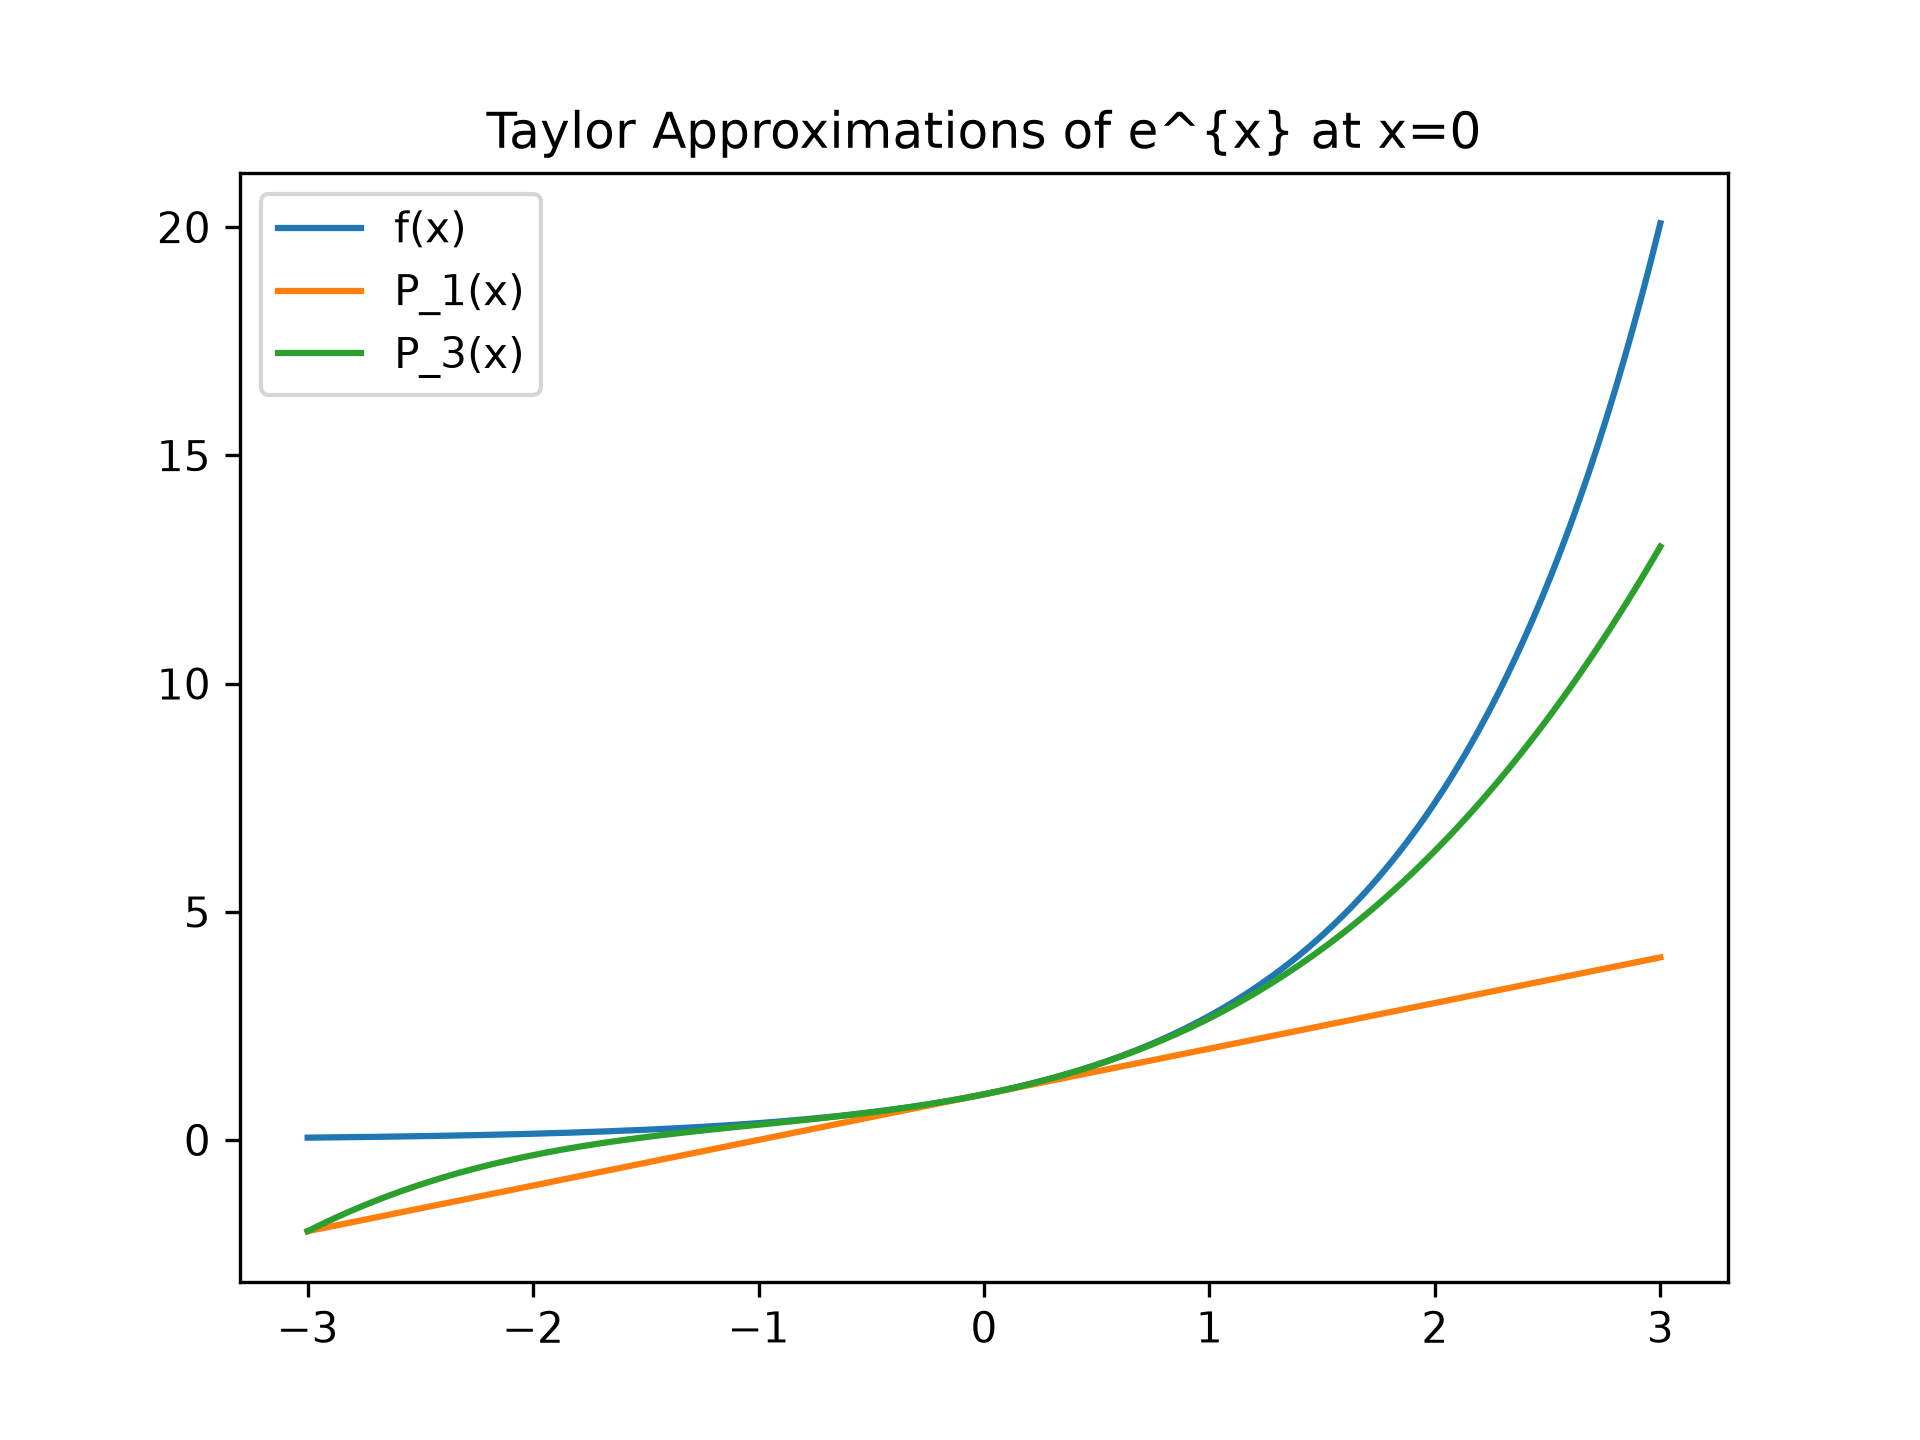
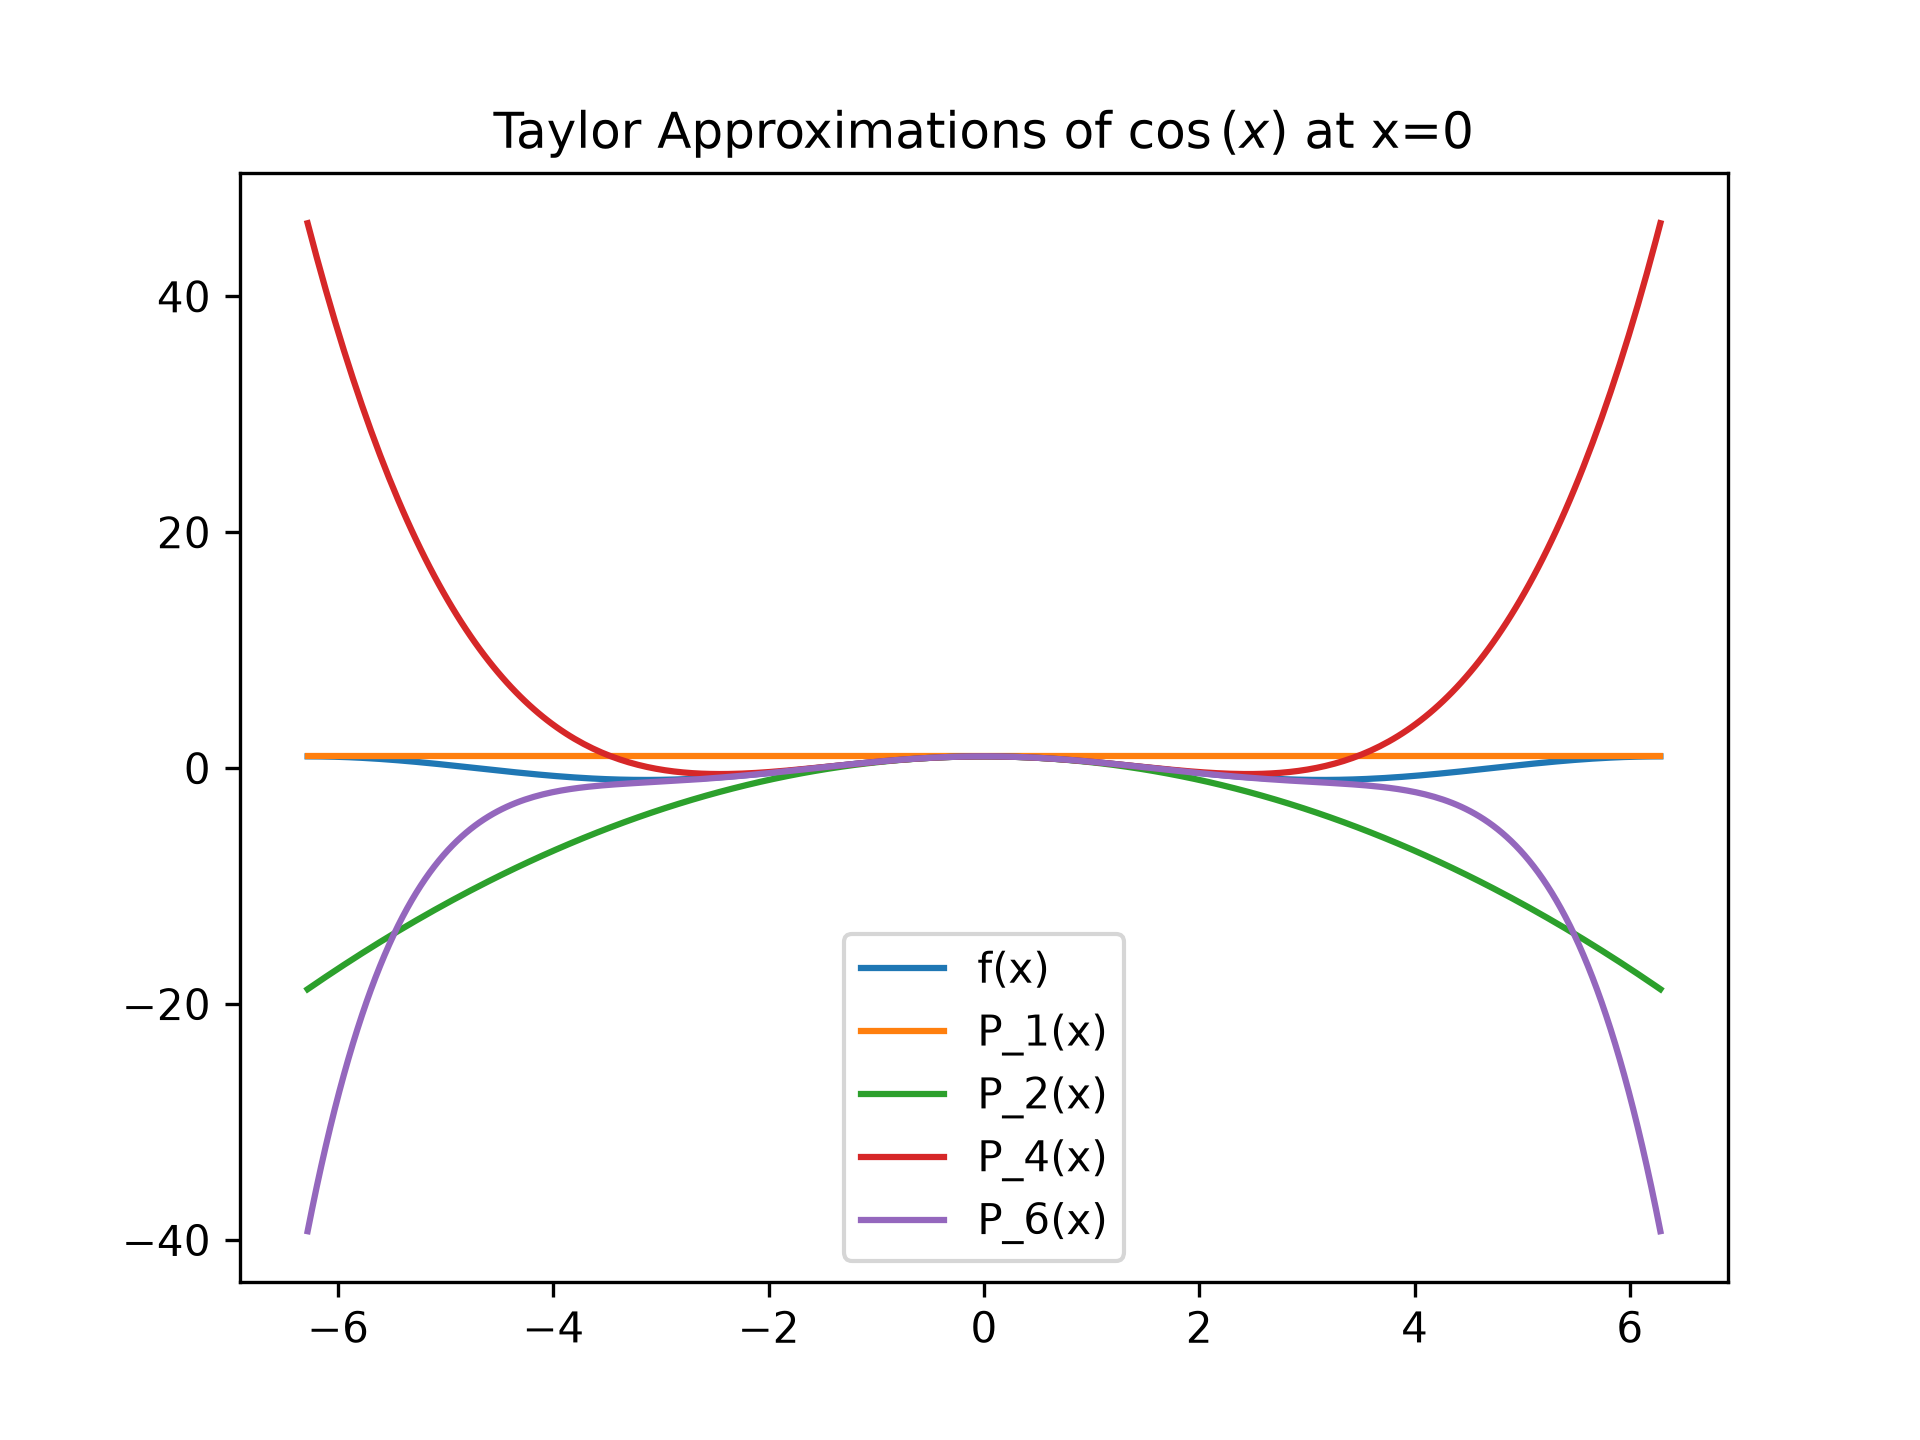
add test cases for taylor series

diff --git a/assignment_1/taylor_series.py b/assignment_1/taylor_series.py
@@ -5,7 +5,7 @@ import numpy as np
 def find_var(expr): #helper function
     variables = expr.free_symbols
     if len(variables) != 1:
-        raise ValueError("0 or >1 free symbols")
+        raise ValueError("0 or > 1 free symbols")
     return list(variables)[0]
 
 def taylor_series ( expr , point , n , var = None ):
@@ -25,6 +25,12 @@ def taylor_series ( expr , point , n , var = None ):
 
     for i in range(n+1):
         derivative = expr.diff(var,i).subs(var,point)
+
+        if derivative == sp.nan:
+            raise ValueError(f"derivative not defined at {point} for n = {n}, function is not differentiable at {point}")
+        elif derivative == sp.zoo:
+            raise ValueError(f"derivative not defined at {point} for n = {n}, limit goes to infinity")
+
         term = derivative/sp.factorial(i) * (var-point)**(i)
         return_expr += term
         return_data["terms"].append(term)
@@ -37,6 +43,8 @@ def taylor_series ( expr , point , n , var = None ):
     return return_data
 
 def evaluate_and_compare(expr, point, n, x_eval, var=None):
+    if (type(expr) == str):
+            expr = sp.sympify(expr)
     if var == None:
             var=find_var(expr)
     series = taylor_series(expr,point,n,var)
@@ -44,7 +52,7 @@ def evaluate_and_compare(expr, point, n, x_eval, var=None):
     approx = sp.N(series["polynomial"].subs(var,x_eval))
     true_value = sp.N(expr.subs(var,x_eval))
     abs_error = abs(true_value - approx)
-    rel_error = abs_error/true_value
+    rel_error = abs_error/abs(true_value)
     return {"approx" : approx, "true_value" : true_value, "abs_error" : abs_error, "rel_error" : rel_error}
 
 def plot_taylor_approximations(expr, point, orders,x_range, var=None):
@@ -53,22 +61,142 @@ def plot_taylor_approximations(expr, point, orders,x_range, var=None):
         var = find_var(expr)
     f = sp.lambdify(var,expr)
     y_f = f(x_arr)
+    if np.isscalar(y_f): #to avoid value error incase the whole array is shrunk to one value
+        y_f = np.full_like(x_arr, y_f)
+
     plt.plot(x_arr,y_f,label = "f(x)")
     for order in orders:
         series = taylor_series(expr,point, order,var)
         der = sp.lambdify(var,series["polynomial"])
         y_arr = der(x_arr)
         label = f"P_{order}(x)"
+
+        if np.isscalar(y_arr):
+            y_arr = np.full_like(x_arr, y_arr)
+
         plt.plot(x_arr,y_arr,label=label)
     plt.legend()
-    plt.title(f"Taylor Approximations of {sp.latex(expr)} at x={point}")
+    plt.title(f"Taylor Approximations of ${sp.latex(expr)}$ at x={point}")
     plt.savefig('taylor_plot.png', dpi=300)
     
 
 
 if __name__ == "__main__":
     x = sp.Symbol('x')
+
+    #test case i
+    print("Test case i: ")
     expr = sp.exp(x)
-    print(taylor_series(expr,0,3))
-    print(evaluate_and_compare(expr,0,3,1))
-    plot_taylor_approximations(expr, 0, [1, 3], [-3, 3])  
+    x0 = 0
+    N = [1,3,5]
+    print(f"For {expr}")
+    for n in N:
+        tc1 = evaluate_and_compare(expr,x0,n,0.5)
+        print(f"at n = {n}: Absolute error = {tc1['abs_error']}, Relative error = {tc1['rel_error']}")
+
+    #test case ii
+    print("\nTest case ii: ")
+    expr = sp.sin(x)
+    x0 = 0
+    n=7
+    tc2 = taylor_series(expr,x0,n)
+    print(f"\nFor {expr} at n = {n}:")
+    print(f"Terms: {tc2['terms']}")
+    print("(all even order terms vanished)")
+
+    #test case iii
+    print("\nTest case iii: ")
+    expr = sp.ln(x)
+    x0 = 1
+    n = 4
+    tc3 = evaluate_and_compare(expr,x0,n,1.2)
+    print(f"\nFor {expr} at n = {n}:")
+    print(f"P_4(1.2) = {tc3['approx']}, ln(1.2) = {tc3['true_value']}")
+    print(f"Absolute error = {tc3['abs_error']}, Relative error = {tc3['rel_error']}")
+
+    #test case iv
+    print("\nTest case iv: ")
+    expr = 1/(1-x)
+    x0 = 0
+    n = 5
+    xin = [0.9,1.5]
+    tc4_1 = evaluate_and_compare(expr,x0,n,xin[0])
+    tc4_2 = evaluate_and_compare(expr,x0,n,xin[1])
+    print(f"\nFor {expr} at n = {n}:")
+    print(f"P_5(0.9) = {tc4_1['approx']}, 1/(1-{xin[0]}) = {tc4_1['true_value']}")
+    print(f"Absolute error = {tc4_1['abs_error']}, Relative error = {tc4_1['rel_error']}")
+    print(f"P_5(1.5) = {tc4_2['approx']}, 1/(1-{xin[1]}) = {tc4_2['true_value']}")
+    print(f"Absolute error = {tc4_2['abs_error']}, Relative error = {tc4_2['rel_error']}")
+
+    #test case v
+    #tc 5.1
+    print("\nTest case 5.1: ")
+    expr = x**2
+    n = 0
+    x0 = x
+    tc5_1 = taylor_series(expr, x0, 0, x)
+    print(f"When n = 0, derivative of {expr} is still {tc5_1['polynomial']}")
+
+    x0 = 2
+    tc5_1 = taylor_series(expr, x0, 0, x)
+    print(f"When n = 0, {expr} at x = {x0} is still {tc5_1['polynomial']}")
+
+    #tc 5.2
+    print("\nTest case 5.2: ")
+    try:
+        tc5_1 = taylor_series(expr, x0, -1, x)
+
+    except ValueError as msg:
+        print(f"Error: {msg}")
+    try:
+        tc5_1 = taylor_series(expr, x0, "a", x)
+    except ValueError as msg:
+        print(f"Error: {msg}")
+
+    #tc 5.3
+    print("\nTest case 5.3: ")
+    try:
+        expr = sp.Integer(5)
+        taylor_series(expr,x0,3)
+    except ValueError as msg:
+        print(f"Error: {msg}")
+    #tc 5.4
+    print("\nTest case 5.4: ")
+    try:
+        y = sp.Symbol('y')
+        expr = x*y
+        taylor_series(expr,x0,2)
+    except ValueError as msg:
+            print(f"Error: {msg}")
+
+    #tc 5.5
+    print("\nTest case 5.5: ")
+    try:
+        expr = sp.Abs(x)
+        taylor_series(expr,0,1)
+    except ValueError as msg:
+            print(f"Error: {msg}")
+    try:
+        expr = sp.sqrt(x)
+        taylor_series(expr,0,1)
+    except ValueError as msg:
+        print(f"Error: {msg}")
+
+    #tc 5.6
+    print("\nTest case 5.6: ")
+    try:
+        expr = sp.ln(x)
+        x0 = 1
+        tc_5_6 = taylor_series(expr,x0,1)
+        print(f"Polynomial for lnx for x0 = {x0} is {tc_5_6['polynomial']}")
+        x0 = sp.Symbol('x0')
+        tc_5_6 = taylor_series(expr,x0,1)
+        print(f"Polynomial for lnx for x0 = {x0} is {tc_5_6['polynomial']}")
+    except ValueError as msg:
+            print(f"Error: {msg}")
+
+    #test case vi
+    print("\nTest case vi: (image saved as taylor_plot.png)")
+    expr = sp.cos(x)
+    range_vi = float(2 * np.pi)
+    plot_taylor_approximations(expr, 0, [1,2,4,6], [-range_vi, range_vi])  
